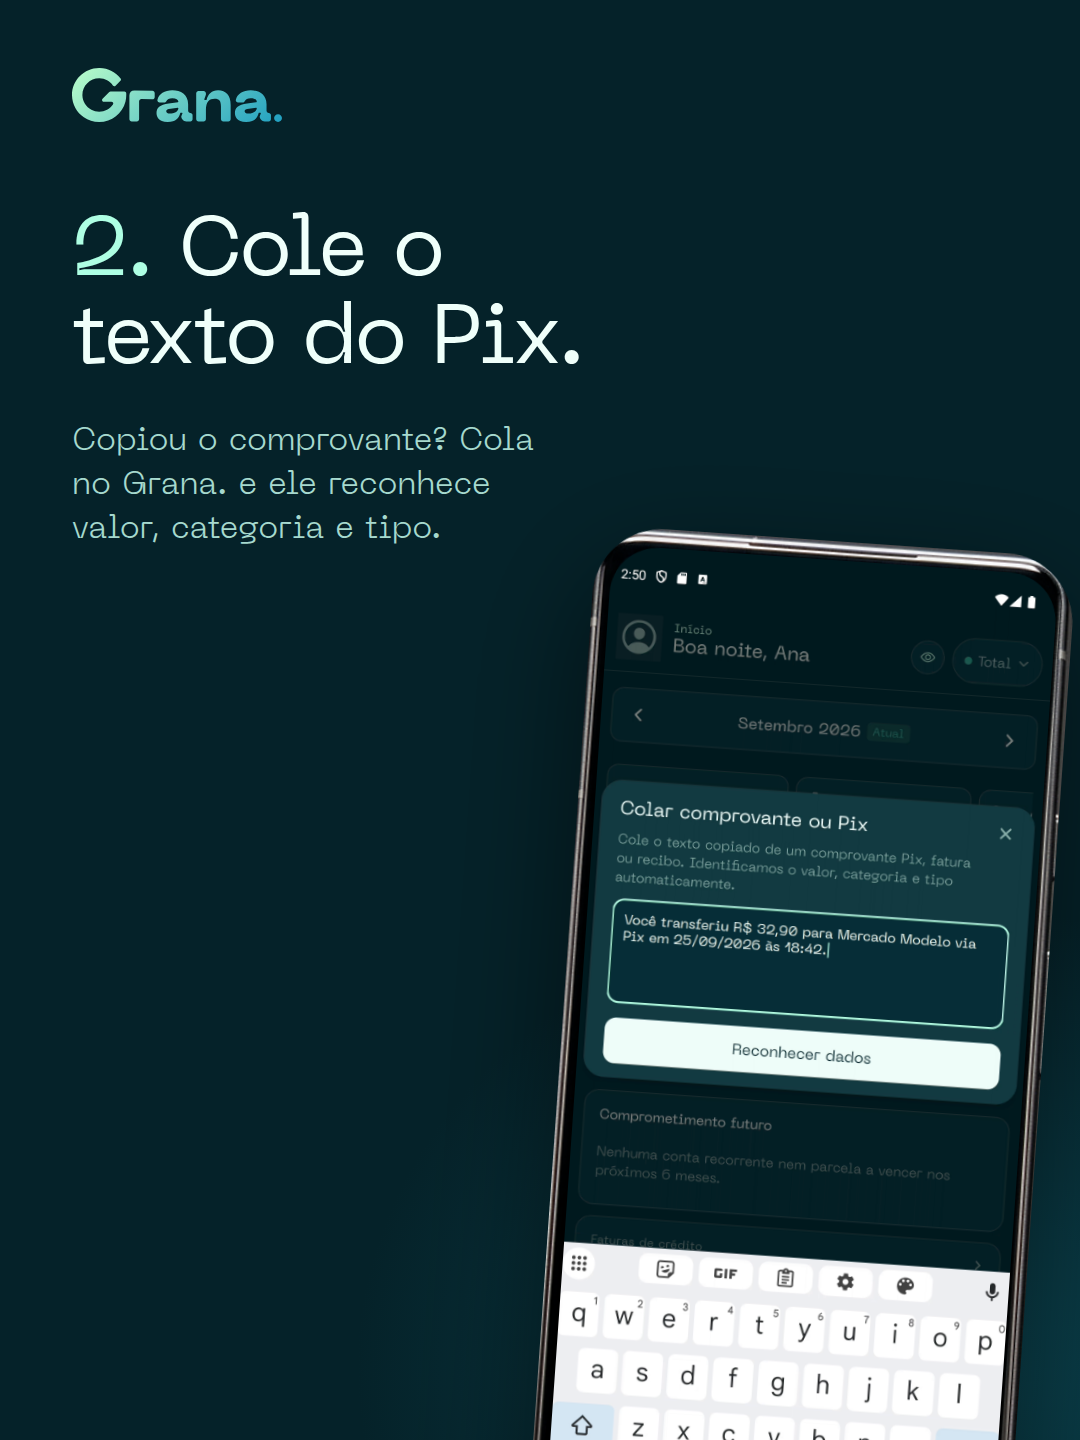
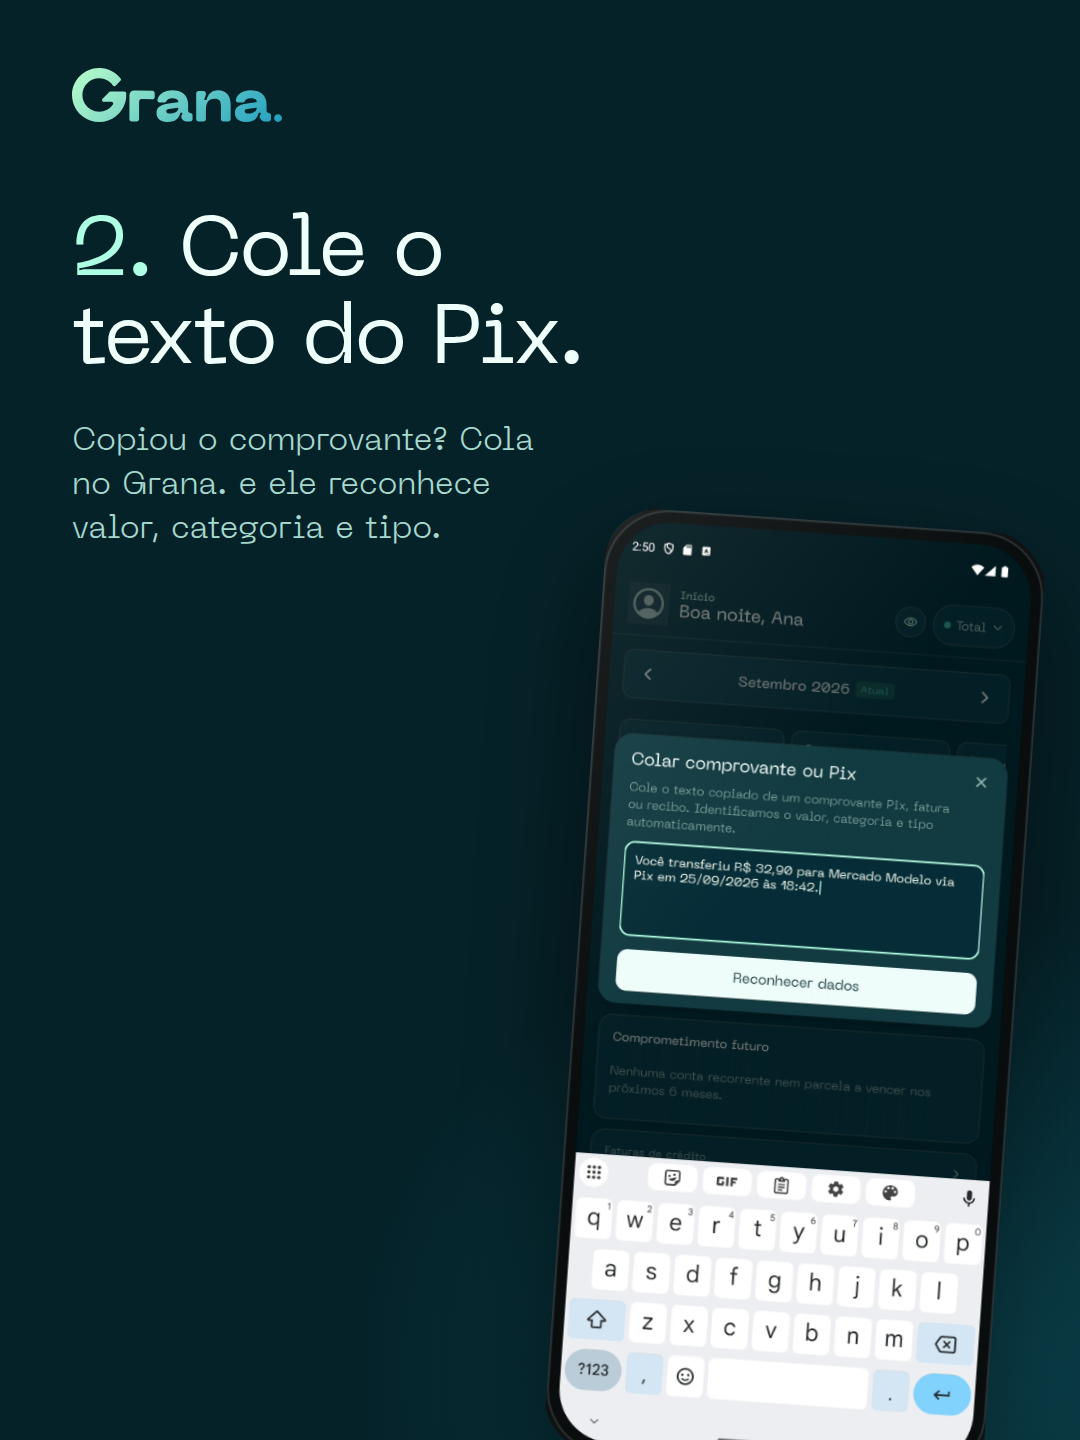
docs(marketing): S2 pagina 3 com a moldura de celular dos videos aprovados
Claude-Session: https://claude.ai/code/session_01Fv8uFkxWiJMthXkKAtJfu8

Changed region(s): [[0.4889, 0.3438, 1.0, 1.0]]

diff --git a/docs/marketing/funil-criativos-flat-2026-09/S2-tres-jeitos/S2.html b/docs/marketing/funil-criativos-flat-2026-09/S2-tres-jeitos/S2.html
@@ -56,7 +56,7 @@ em{font-style:normal;color:#aeffe3}
  <img class="logo" src="../../../../design-system/marca/logotipo-gradiente.svg">
  <div class="h1"><em>2.</em> Cole o texto do Pix.</div>
  <div class="h2" style="top:420px">Copiou o comprovante? Cola no Grana. e ele reconhece valor, categoria e tipo.</div>
- <div class="ph" data-k="1.2" style="left:560px;top:540px;transform:rotate(4deg)"><div class="body"></div><div class="scr"><img src="telas/tela-colado.png"></div></div>
+ <img src="telas/cel-colado.png" style="position:absolute;left:575px;top:520px;width:440px;transform:rotate(4deg);filter:drop-shadow(0 40px 60px rgba(0,0,0,.5));z-index:2">
 </div>
 <!-- 4 fotografe -->
 <div class="s" id="s4">

diff --git a/docs/marketing/funil-criativos-flat-2026-09/S2-tres-jeitos/README.md b/docs/marketing/funil-criativos-flat-2026-09/S2-tres-jeitos/README.md
@@ -24,3 +24,5 @@ Carrossel de feed com 7 slides em 1080×1440. É o S2 do calendário do `FUNIL.m
 **Revisão do autor (27/09/2026):** ícones grandes em destaque não. Eles ficam só como detalhe visual, pequenos e discretos. Na capa, os ícones viraram marcadores de 58 px. No slide 2, o selo grande saiu. No slide 4, a câmera grande deu lugar ao cupom com a mira.
 
 **Segunda revisão do autor (27/09/2026):** nem como detalhe. Os ícones saíram das páginas 1, 2 e 4, e o indicador de passos (os três selos no alto) saiu de todas. Na capa, a lista virou "1. Fale / 2. Cole o Pix / 3. Fotografe a nota", só em texto, com o número em menta.
+
+**Página 3 (27/09/2026):** o autor achou o celular "muito mal feito". A montagem sobre a foto do `celular-vazio.png` saiu. Entrou a mesma moldura de celular dos vídeos aprovados, com a tela real do "Colar comprovante ou Pix" já com o acento corrigido (`telas/cel-colado.png`).
